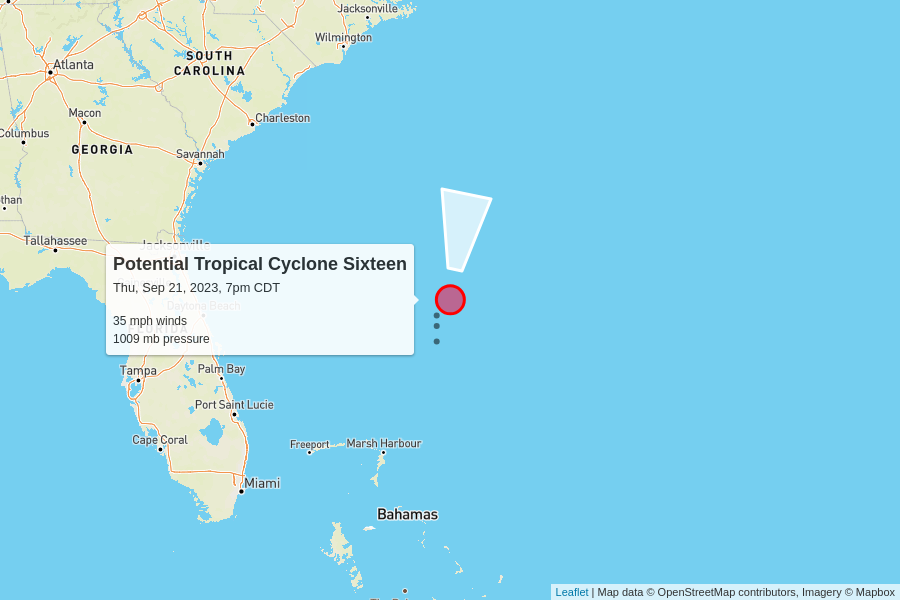
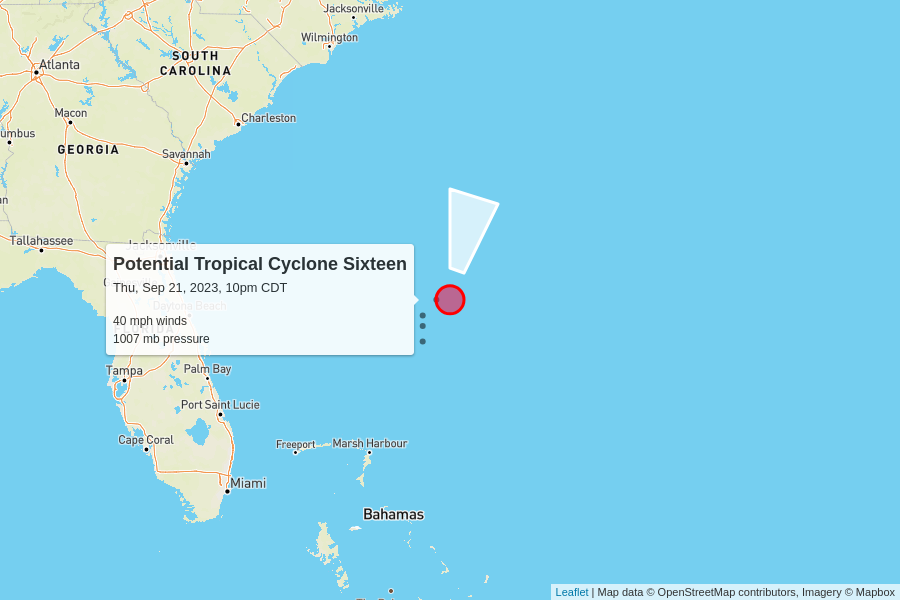
automatic update

diff --git a/docs/index.html b/docs/index.html
@@ -101,10 +101,10 @@
 
     <table>
       <tr>
-        <td colspan="6" class="storm category-0" >
+        <td colspan="6" class="storm category-1" >
           <h2>
-            Potential Tropical Cyclone Sixteen
-            <p class="updated">last updated <span data-time>2023-09-22T00:00:00.000Z</span></p>
+            Hurricane Nigel - Category 1
+            <p class="updated">last updated <span data-time>2023-09-22T03:00:00.000Z</span></p>
           </h2>
         </td>
       </tr>
@@ -119,21 +119,21 @@
       </tr>
       <tr>
         <td class="spacer"></td>
-        <td>35 mph<br>0 mph since last update</td>
-        <td>1009 mb<br>-3 mb since last update</td>
+        <td>75 mph<br>-5 mph since last update</td>
+        <td>979 mb<br>+2 mb since last update</td>
         <td>
-          7 mph to the north
+          37 mph to the east-northeast
           <br/>
-          <span style="display: inline-block; font-size: 1.5em; transform: rotate(10deg);">↑</span>
+          <span style="display: inline-block; font-size: 1.5em; transform: rotate(65deg);">↑</span>
         </td>
-        <td><a href="https://raw.githubusercontent.com/mgwalker/atlantic-hurricanes/main/data/csv/AL162023.csv">AL162023.csv</a></td>
-        <td><a href="https://www.nhc.noaa.gov/archive/2023/SIXTEEN.shtml?">NHC advisories</a></td>
+        <td><a href="https://raw.githubusercontent.com/mgwalker/atlantic-hurricanes/main/data/csv/AL152023.csv">AL152023.csv</a></td>
+        <td><a href="https://www.nhc.noaa.gov/archive/2023/NIGEL.shtml?">NHC advisories</a></td>
       </tr>
-      <tr id="storm_AL162023" >
+      <tr id="storm_AL152023" >
         <td class="spacer">
         <td colspan="5">
           <figure>
-            <img src="AL162023.png">
+            <img src="AL152023.png">
             <figcaption>
               Map data &copy; <a href="https://www.openstreetmap.org/copyright">OpenStreetMap</a> contributors,
               Imagery &copy; <a href="https://www.mapbox.com/">Mapbox</a> |
@@ -145,10 +145,10 @@
       
 
       <tr>
-        <td colspan="6" class="storm category-1" >
+        <td colspan="6" class="storm category-0" >
           <h2>
-            Hurricane Nigel - Category 1
-            <p class="updated">last updated <span data-time>2023-09-21T21:00:00.000Z</span></p>
+            Potential Tropical Cyclone Sixteen
+            <p class="updated">last updated <span data-time>2023-09-22T03:00:00.000Z</span></p>
           </h2>
         </td>
       </tr>
@@ -163,21 +163,21 @@
       </tr>
       <tr>
         <td class="spacer"></td>
-        <td>80 mph<br>-5 mph since last update</td>
-        <td>977 mb<br>0 mb since last update</td>
+        <td>40 mph<br>+5 mph since last update</td>
+        <td>1007 mb<br>-2 mb since last update</td>
         <td>
-          37 mph to the east-northeast
+          3 mph to the north-northeast
           <br/>
-          <span style="display: inline-block; font-size: 1.5em; transform: rotate(60deg);">↑</span>
+          <span style="display: inline-block; font-size: 1.5em; transform: rotate(15deg);">↑</span>
         </td>
-        <td><a href="https://raw.githubusercontent.com/mgwalker/atlantic-hurricanes/main/data/csv/AL152023.csv">AL152023.csv</a></td>
-        <td><a href="https://www.nhc.noaa.gov/archive/2023/NIGEL.shtml?">NHC advisories</a></td>
+        <td><a href="https://raw.githubusercontent.com/mgwalker/atlantic-hurricanes/main/data/csv/AL162023.csv">AL162023.csv</a></td>
+        <td><a href="https://www.nhc.noaa.gov/archive/2023/SIXTEEN.shtml?">NHC advisories</a></td>
       </tr>
-      <tr id="storm_AL152023" >
+      <tr id="storm_AL162023" >
         <td class="spacer">
         <td colspan="5">
           <figure>
-            <img src="AL152023.png">
+            <img src="AL162023.png">
             <figcaption>
               Map data &copy; <a href="https://www.openstreetmap.org/copyright">OpenStreetMap</a> contributors,
               Imagery &copy; <a href="https://www.mapbox.com/">Mapbox</a> |
